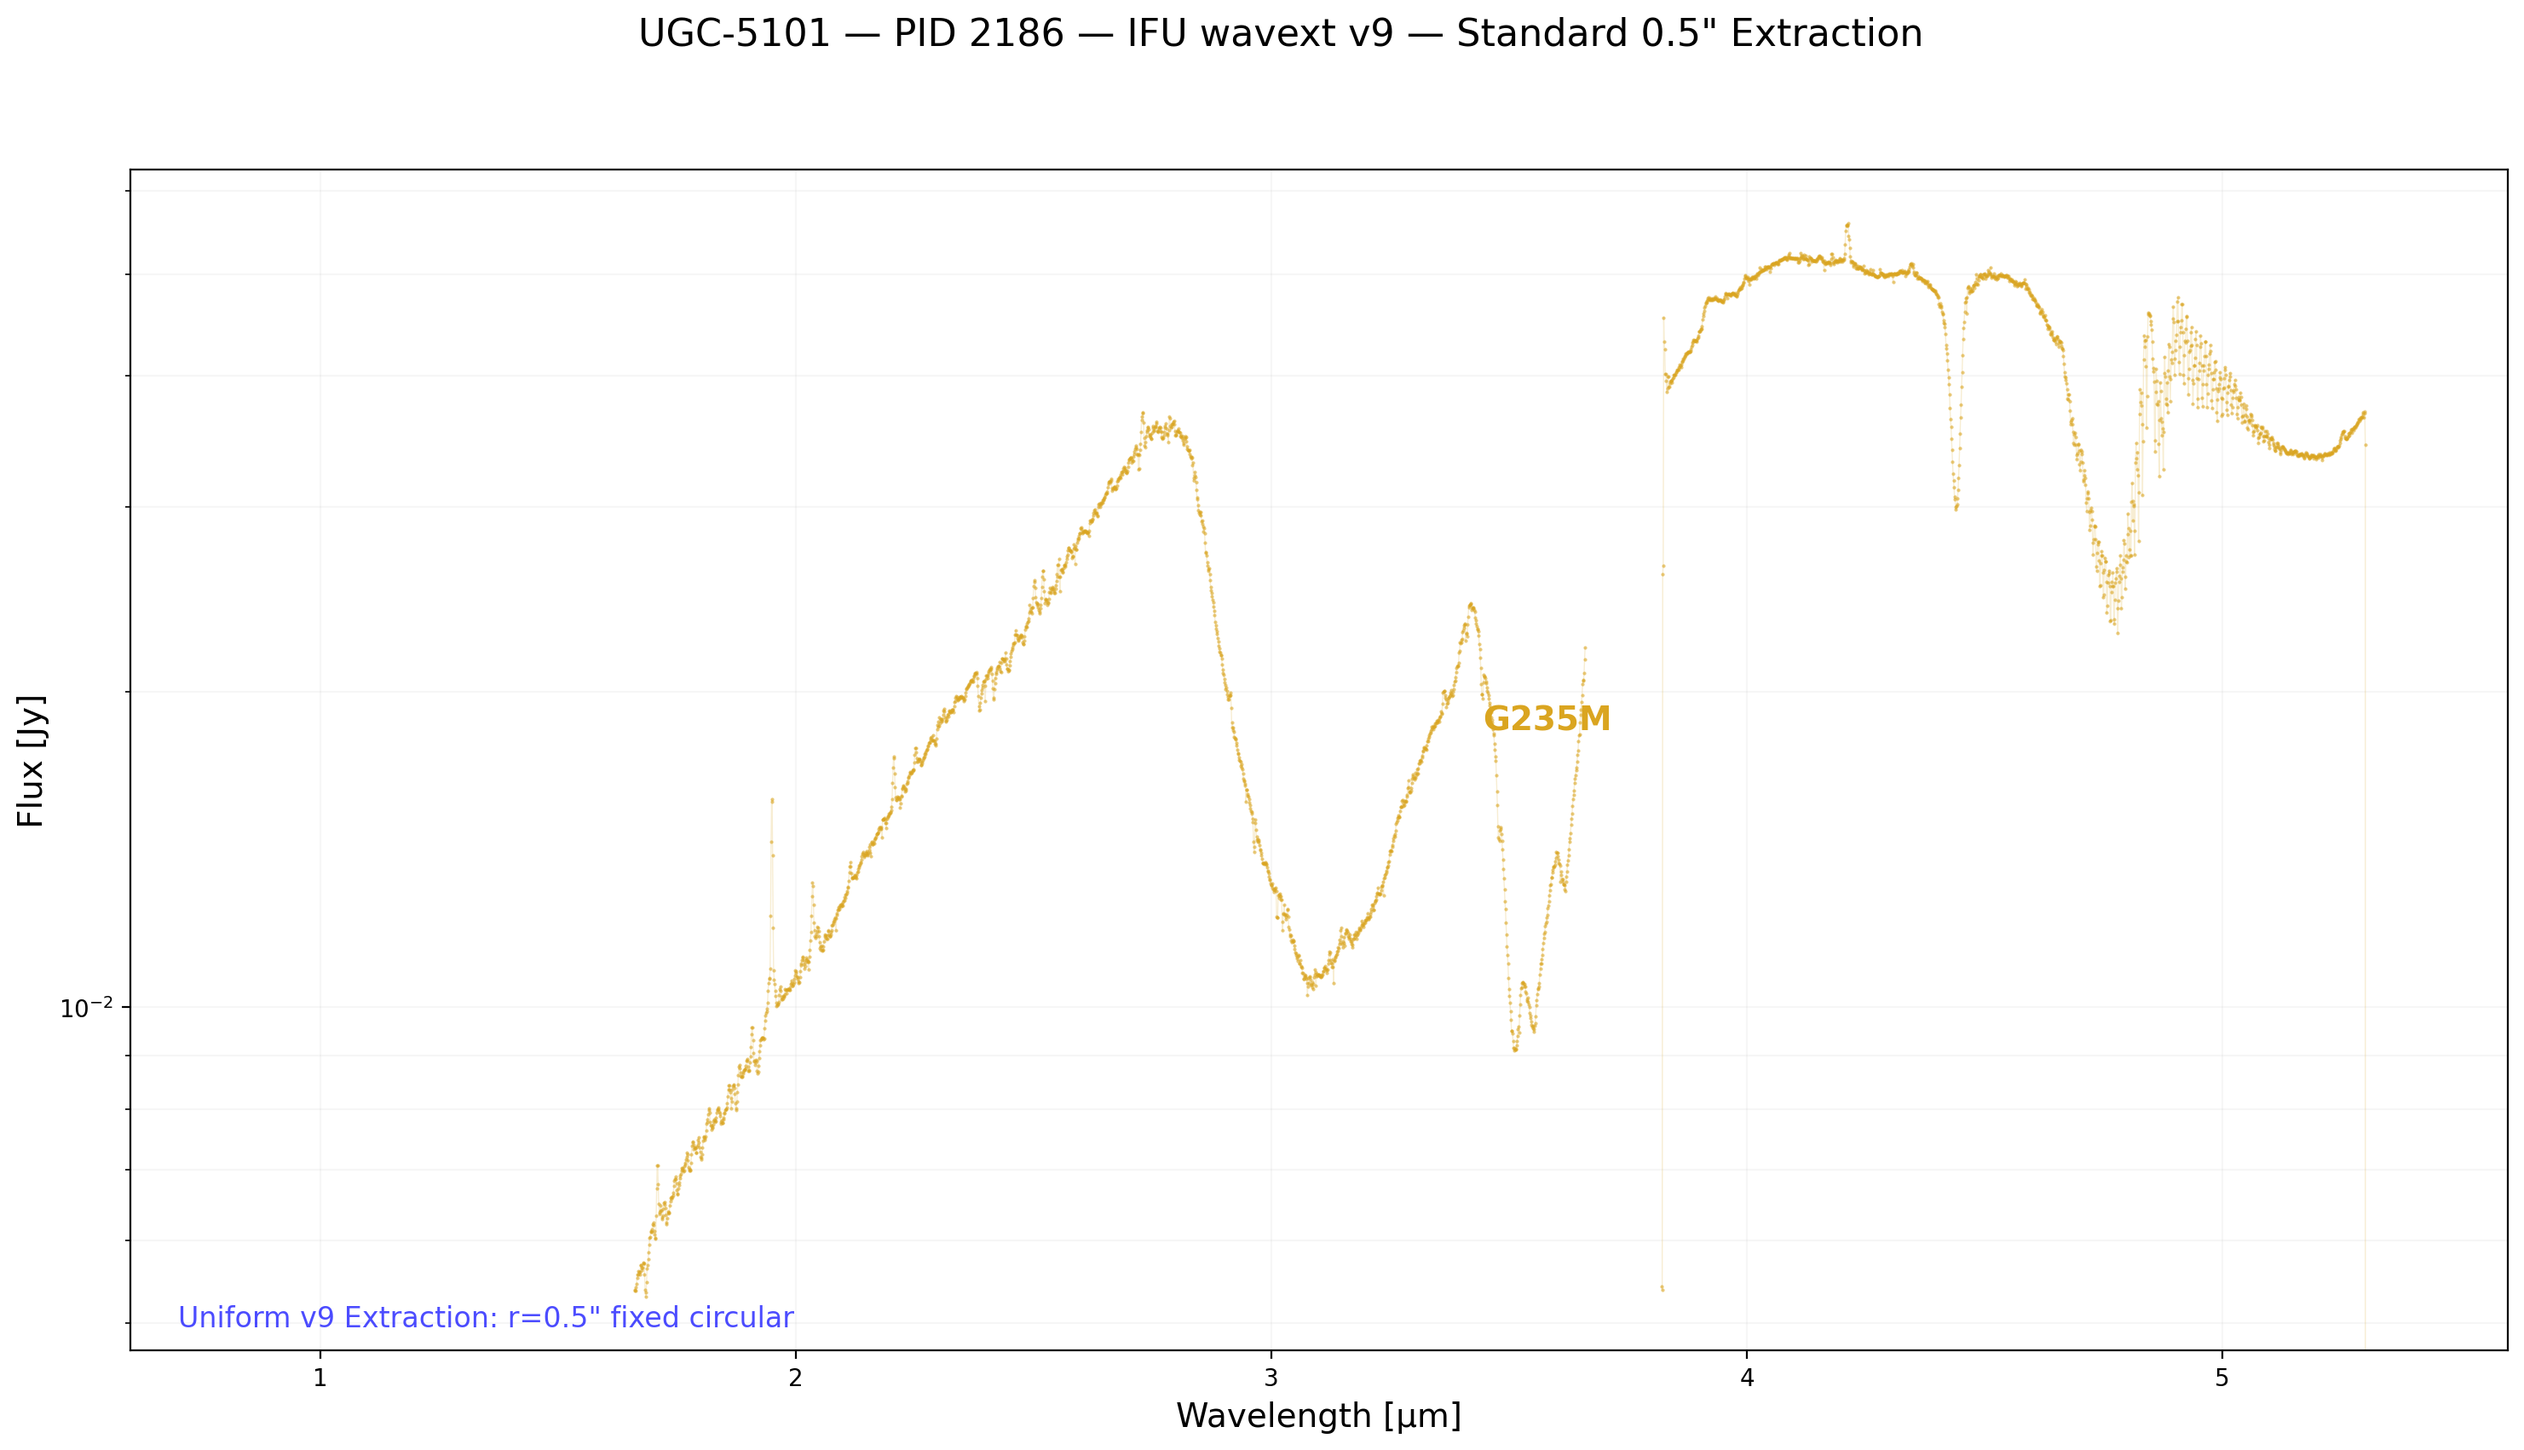
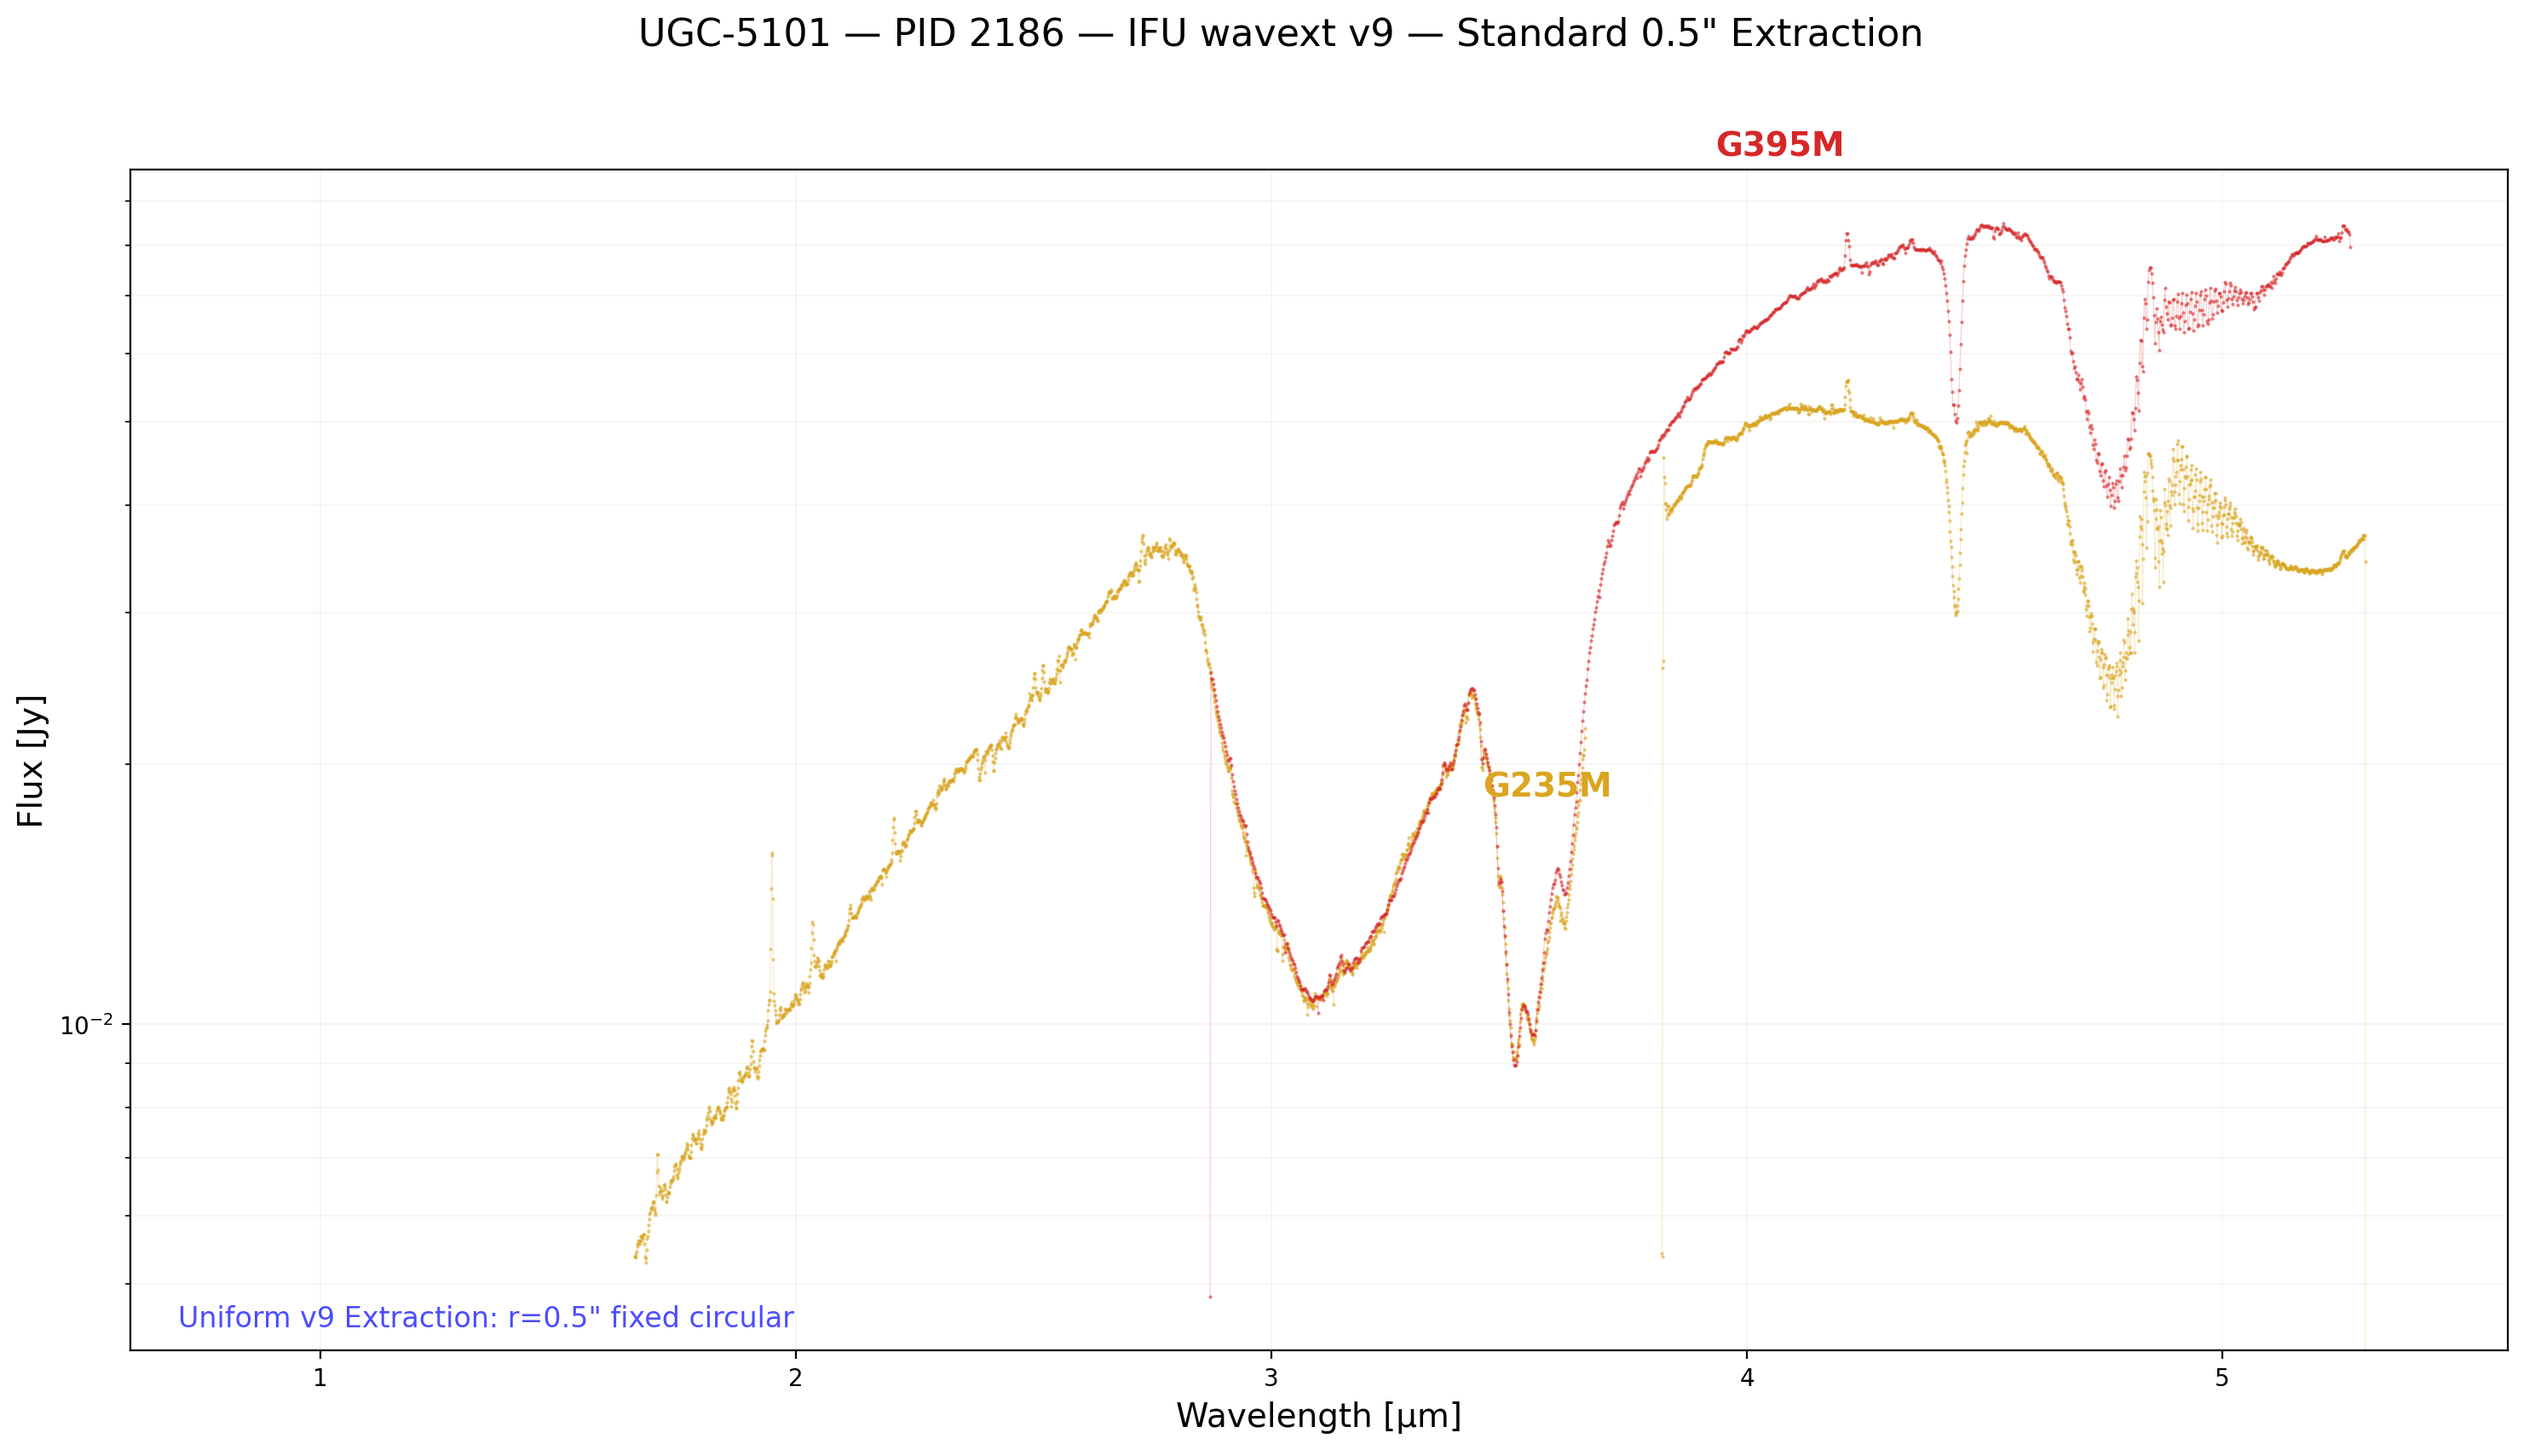
v9: Consolidated target folders and integrated UGC-5101 G395M spectral plots

diff --git a/reports/v9/ifu_v9/plots/plot_ifu_v9_full_spectra.py b/reports/v9/ifu_v9/plots/plot_ifu_v9_full_spectra.py
@@ -25,7 +25,7 @@ TARGETS = [
     {'pid': '1536', 'name': 'J1743045',  'calspec': '1743045_mod_007.fits',  'dir': f'{IFU_DIR}/PID1536_J1743045/stage3_ext'},
     {'pid': '1537', 'name': 'G191-B2B',  'calspec': 'g191b2b_mod_012.fits', 'dir': f'{IFU_DIR}/PID1537_G191-B2B/stage3_ext'},
     {'pid': '1538', 'name': 'P330E',     'calspec': 'p330e_mod_008.fits',    'dir': f'{IFU_DIR}/PID1538_P330E/stage3_ext'},
-    {'pid': '2186', 'name': 'UGC-5101',  'calspec': None,                    'dir': f'{FS_DIR}/PID2186_UGC-5101/stage3_ext', 'science': True},
+    {'pid': '2186', 'name': 'UGC-5101',  'calspec': None,                    'dir': f'{FS_DIR}/PID2186_UGC-5101', 'science': True},
     {'pid': '6645', 'name': 'P330E-C3',  'calspec': 'p330e_mod_008.fits',    'dir': f'{IFU_DIR}/PID6645_P330E-C3/stage3_ext'},
 ]
 
@@ -107,7 +107,7 @@ def plot_full_spectra(target):
     }
 
     for g_name in gratings:
-        s3d_files = glob.glob(f"{target['dir']}/*{g_name.lower()}*s3d.fits")
+        s3d_files = glob.glob(f"{target['dir']}/**/*{g_name.lower()}*s3d.fits", recursive=True)
         if not s3d_files: continue
         
         # Unified for v9: Always extract 0.5" radius
